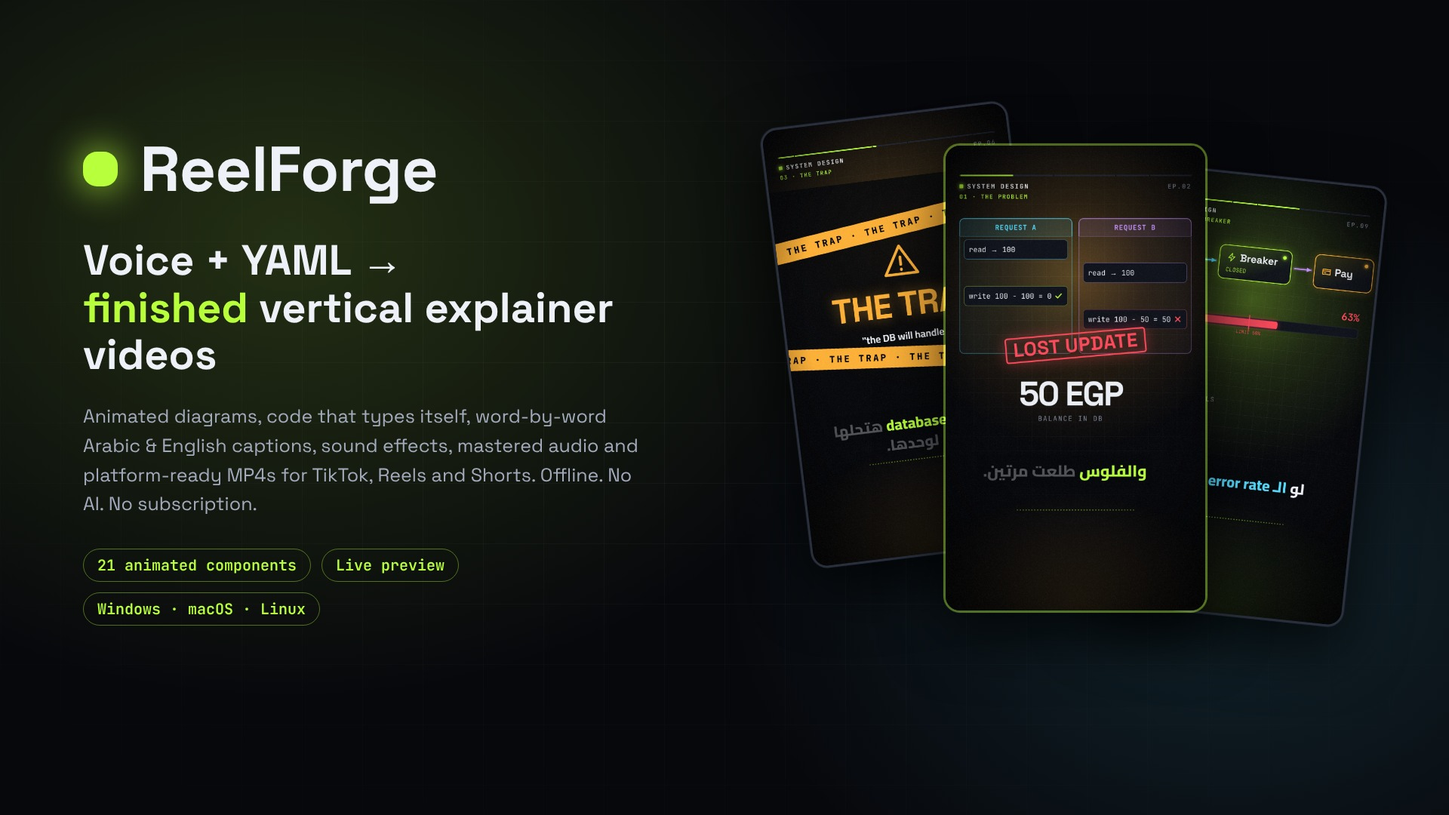
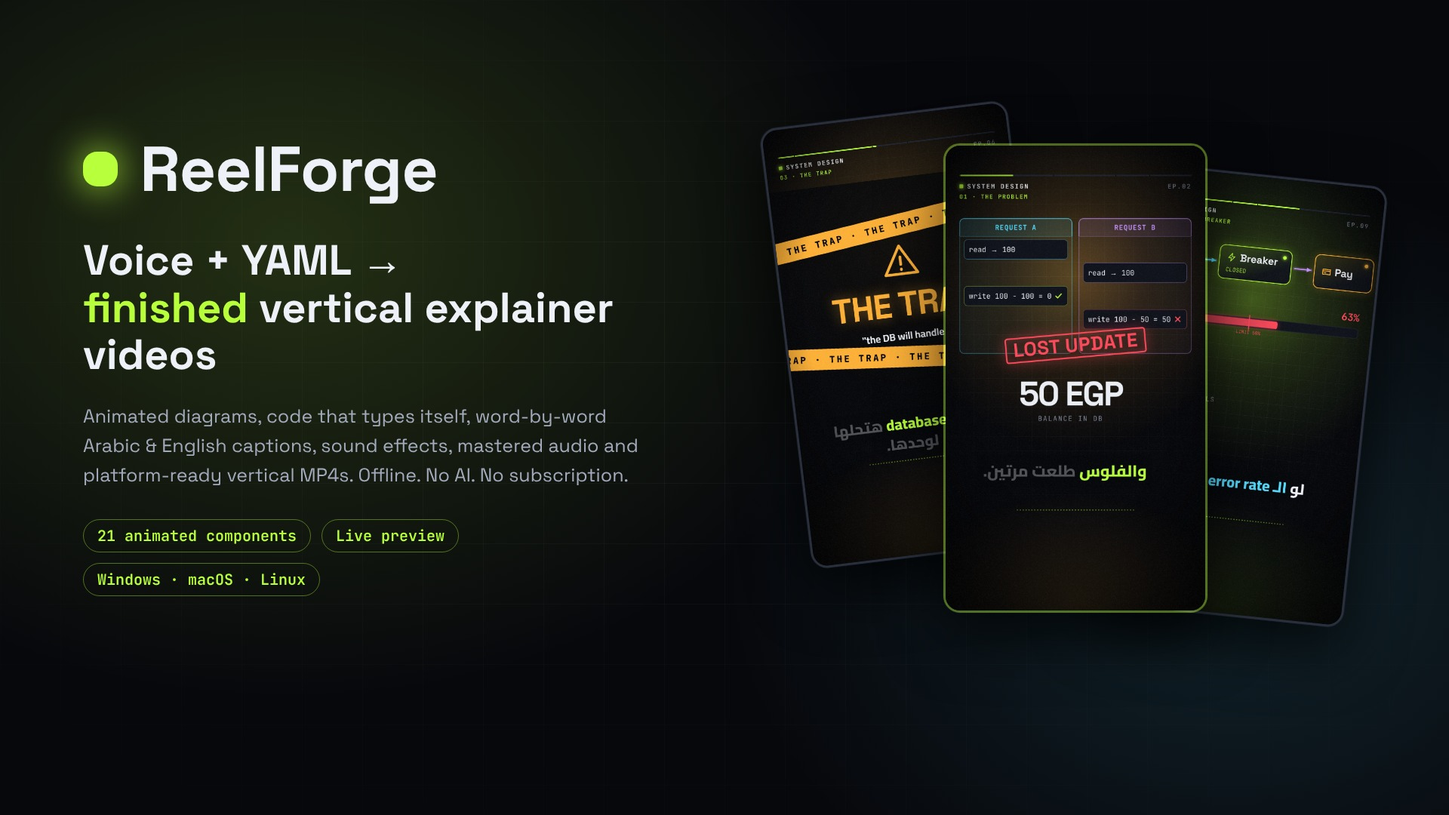
CodeCanyon listing: Envato-compliant title, key features, tags, description, reviewer note; 3:2 cover image; no trademarks in previews
Claude-Session: https://claude.ai/code/session_01XQtirGsScPfnWSNLUA9dcY

Changed region(s): [[0.0625, 0.55, 0.4375, 0.7639]]

diff --git a/docs/codecanyon/item-description.html b/docs/codecanyon/item-description.html
@@ -1,65 +1,110 @@
-<h2>ReelForge — Voice + YAML → finished vertical explainer videos</h2>
+<h2>ReelForge - Voice + YAML to Finished Vertical Explainer Videos</h2>
 <p>
-  Turn a <strong>voice recording</strong> and one simple text file into a <strong>polished vertical explainer video</strong>
-  (1080×1920, 30 fps) for <strong>TikTok, Instagram Reels and YouTube Shorts</strong> — with animated diagrams, code that types
-  itself, word-by-word captions, sound effects, mastered audio and platform-ready MP4 files.
-  No video editor, no keyframes, no subscription, no AI.
+  ReelForge turns a <strong>voice recording</strong> and one simple text file into a <strong>polished vertical explainer video</strong>
+  (1080×1920, 30 fps) ready to publish on short-video platforms such as TikTok, Instagram Reels and YouTube Shorts.
+  You get animated diagrams, code that types itself, word-by-word captions, sound effects, mastered audio and
+  platform-ready MP4 files. You don't need a video editor, keyframes, a subscription or AI.
 </p>
 <p>
-  You write what you say, sentence by sentence, and describe what appears on screen and <strong>on which word</strong>.
-  ReelForge animates everything exactly when you say it. Re-record one sentence and everything after it stays in sync.
+  You write your script one sentence per line and describe what appears on screen and <strong>on which word</strong>.
+  ReelForge animates everything exactly when you say it. If you re-record one sentence, everything after it stays in sync.
 </p>
 
-<h3>Perfect for</h3>
+<h3>Who is it for?</h3>
 <ul>
-  <li>Developers and educators making technical explainer series (system design, programming, DevOps, data…)</li>
-  <li>Arabic creators who mix English terms — captions that are finally laid out correctly</li>
-  <li>Agencies producing consistent branded reels at scale</li>
-  <li>Trainers turning course material into short clips</li>
+  <li>Developers and educators who make technical explainer series (system design, programming, DevOps, data).</li>
+  <li>Arabic creators who mix English terms into their speech. Right-to-left captions keep the English words in the correct order.</li>
+  <li>Agencies and teams producing consistent, branded short videos at scale.</li>
+  <li>Trainers and course authors who turn lessons into short clips.</li>
 </ul>
+
+<h3>How it works</h3>
+<ol>
+  <li><strong>Create</strong> an episode in the dashboard (or with <code>reelforge new ep10</code>).</li>
+  <li><strong>Write</strong> the script and the scenes in <code>episode.yaml</code>. VS Code autocompletion is included.</li>
+  <li><strong>Record</strong> your voice with any recorder, then upload WAV, MP3, M4A, AAC, OGG, FLAC, WebM or Opus.</li>
+  <li><strong>Mark cues</strong> by pressing Space at the start of each sentence while you listen.</li>
+  <li><strong>Preview</strong> the real frame synced to your voice. It reloads every time you save.</li>
+  <li><strong>Validate and render.</strong> You get a master MP4, a share MP4 sized for upload, SRT captions, a contact sheet and a ready-to-paste caption.</li>
+</ol>
 
 <h3>Key features</h3>
 <ul>
-  <li><strong>Project dashboard</strong> — create episodes, upload your recording (WAV, MP3, M4A, OGG, FLAC…), mark cues, preview, validate and render with live progress, then play and download the results.</li>
-  <li><strong>Cue marker</strong> — press Space at the start of each sentence while listening at 0.5×–1× speed; nudge by 10/50 ms, re-mark any line, word-level marks, snap-to-voice-onset, undo, autosave.</li>
-  <li><strong>Live preview</strong> — the real 1080×1920 frame synced to your voice, reloading on every save, with TikTok/Reels/Shorts safe-zone overlays, element boxes and a lint panel.</li>
-  <li><strong>21 animated components</strong> — title, label, code, node, arrow (with moving packets), chip, stamp, table, lanes, checklist, counter, meter, timeline, grid, token bucket, phone mock-up, quote, particles, “The Trap” interstitial, call-to-action and icons.</li>
-  <li><strong>Arabic-first captions</strong> — word-by-word karaoke highlight; right-to-left text with English terms in the correct order; “الـ client” kept together; punctuation on the correct side.</li>
-  <li><strong>Professional audio</strong> — procedural sound effects on hits and transitions, voice mastered to −14 LUFS, effects ducked under the voice, true-peak limiter.</li>
-  <li><strong>Platform-ready output</strong> — H.264 master, a share file that fits the size you choose, SRT captions, a contact sheet and a publish.md with your caption, hashtags and pinned comment. Every file is verified after encoding.</li>
-  <li><strong>13 validation rules</strong> — schema, timing, overlaps, off-screen elements, platform UI zones, text overflow and caption length, each with file:line:column and a fix hint.</li>
-  <li><strong>Themes and presets</strong> — every color, font size and motion value in one YAML file; generate a full theme from one accent color.</li>
-  <li><strong>Fast, parallel rendering</strong> — uses all your CPU cores; a 2-minute episode renders in about 5–10 minutes.</li>
-  <li><strong>Offline and private</strong> — everything runs on your computer. No account, no upload, no per-video cost.</li>
-  <li><strong>Deterministic</strong> — the same inputs always produce exactly the same frames.</li>
-  <li><strong>Command line</strong> for automation and CI: studio, new, cue, dev, validate, render (batch), snap (cover image), doctor, theme, schema — with JSON output.</li>
+  <li><strong>Project dashboard</strong> (runs in your browser, on your computer only): create episodes, upload recordings, mark cues, preview, validate, render with live progress, then play and open the results.</li>
+  <li><strong>Cue marker</strong>: listen at 0.5×, 0.75× or 1× speed. Nudge cues by 10 or 50 ms, re-mark any line, set word-level marks, snap to voice onsets, undo, and everything saves automatically.</li>
+  <li><strong>Live preview</strong>: the exact 1080×1920 frame, synced to your audio, with safe-zone overlays for each platform, element outlines, a lint panel and an error overlay that points to the YAML line.</li>
+  <li><strong>21 animated components</strong>: title, label, code, node, arrow with moving packets, chip, stamp, table, lanes, checklist, counter, meter, timeline, grid, token bucket, phone mock-up, quote, particles, “trap” interstitial, call-to-action and icons.</li>
+  <li><strong>Word-timed animation</strong>: make any element enter, change or leave on a specific spoken word, for example <code>at: "l3:'Idempotency'"</code>.</li>
+  <li><strong>Arabic-first captions</strong>: word-by-word karaoke highlight, right-to-left text with English terms in the correct order, Arabic prefixes kept attached to English words, and punctuation on the correct side. English-only captions work too.</li>
+  <li><strong>Professional audio</strong>: procedural sound effects on hits and transitions, voice mastered to −14 LUFS with two-pass loudness normalisation, effects ducked under the voice, and a true-peak limiter.</li>
+  <li><strong>Platform-ready output</strong>: an H.264 master (CRF 18), a share file that fits the size you choose, SRT subtitles, a contact sheet, a cover frame and a publish.md with caption, hashtags and pinned comment. Every output is checked with ffprobe after encoding.</li>
+  <li><strong>13 validation rules</strong> covering schema, timing, overlaps, off-screen elements, platform UI zones, text overflow and caption length. Each issue reports file:line:column and a fix hint.</li>
+  <li><strong>Themes and presets</strong>: every color, font size and motion value lives in one YAML file. Generate a complete theme from a single accent color.</li>
+  <li><strong>Fast parallel rendering</strong> uses all your CPU cores. A 2-minute episode takes about 5–10 minutes on a typical 8-core computer.</li>
+  <li><strong>Batch and automation</strong>: <code>render --all</code>, JSON output, environment-variable configuration and clean Ctrl+C handling.</li>
+  <li><strong>Offline and private</strong>: everything runs on your own computer, with no account, no uploads and no per-video cost.</li>
+  <li><strong>Deterministic</strong>: the same inputs always produce exactly the same frames.</li>
 </ul>
 
 <h3>What you get</h3>
 <ul>
-  <li>Full TypeScript source code (monorepo, strict mode, 98 automated tests)</li>
-  <li>One-click installers for Windows, macOS and Linux</li>
-  <li>Nine complete example episodes (Season 1 of “System Design بالعربي”)</li>
-  <li>Three themes and three platform presets (TikTok, Reels, Shorts)</li>
-  <li>Offline HTML documentation with screenshots, a component reference and troubleshooting</li>
+  <li>Full, unminified TypeScript source code (strict mode, monorepo of 6 packages) plus a prebuilt build, ready to run</li>
+  <li>One-click installers and launchers for Windows, macOS and Linux</li>
+  <li>9 complete example episodes (an Arabic system-design series) with draft cues</li>
+  <li>3 themes and 3 editable platform presets</li>
+  <li>Offline HTML documentation in English: installation, quick start, dashboard, recording and cues, preview, themes, rendering, command line, troubleshooting and FAQ, component reference, and screenshots</li>
+  <li>A JSON Schema for editor autocompletion</li>
+  <li>98 automated tests</li>
 </ul>
+
+<h3>Command line</h3>
+<pre>
+reelforge studio            open the project dashboard
+reelforge new &lt;id&gt;          create an episode from a commented template
+reelforge cue &lt;id&gt;          mark cues while listening
+reelforge dev &lt;id&gt;          live preview with hot reload
+reelforge validate &lt;id&gt;     13 lint rules with fix hints
+reelforge render &lt;id&gt;       master + share MP4, SRT, contact sheet, publish.md
+reelforge snap &lt;id&gt; &lt;t&gt;     PNG frames, contact sheet, cover image
+reelforge theme new &lt;name&gt;  generate a theme from one accent color
+reelforge doctor --fix      check and fix Node.js, FFmpeg, Chromium and fonts
+</pre>
 
 <h3>Requirements</h3>
 <ul>
-  <li>Windows 10/11, macOS 13+ or Linux</li>
-  <li>Node.js 22 LTS (free) and FFmpeg 6+ (free) — the installer sets them up for you where possible</li>
-  <li>4 CPU cores and 8 GB RAM minimum</li>
+  <li>Windows 10/11 (64-bit), macOS 13 or later, or a 64-bit Linux distribution</li>
+  <li>Node.js 22 LTS and FFmpeg 6 or later, both free. The installer checks for them and offers to install FFmpeg.</li>
+  <li>About 1.5 GB of free disk space for dependencies and the rendering browser, which the installer downloads once</li>
+  <li>At least 4 CPU cores and 8 GB RAM; 8 cores are recommended</li>
+  <li>An internet connection during installation only</li>
+  <li>For the dashboard and studio: a current Chrome, Edge or Firefox</li>
 </ul>
 
-<h3>Notes</h3>
+<h3>Please note</h3>
 <ul>
-  <li>ReelForge does not generate voices or visuals with AI: you record your own voice and design scenes in a simple YAML file (autocompletion included for VS Code).</li>
-  <li>The bundled fonts (Cairo, Space Grotesk, JetBrains Mono) are under the SIL Open Font License; credits are included.</li>
-  <li>The videos you create are yours to use commercially.</li>
+  <li>ReelForge is a <strong>desktop tool that runs on your computer</strong>. It is not a website script, and you don't need a web server or hosting.</li>
+  <li>It does <strong>not</strong> generate voices, scripts or visuals with AI. You record your own voice and describe your scenes in a simple YAML file.</li>
+  <li>Voice recordings are <strong>not included</strong>. The example episodes come with draft cues so you can preview and render them silently, or record your own voice.</li>
+  <li>The preview images and demo video were made entirely with ReelForge and the bundled example episodes. All fonts used in the previews are included.</li>
+  <li>The videos you create are yours to use, including commercially.</li>
+  <li>TikTok, Instagram, Reels, YouTube and Shorts are trademarks of their respective owners. ReelForge is not affiliated with or endorsed by them. Those names only describe the video formats ReelForge exports.</li>
 </ul>
+
+<h3>Credits</h3>
+<ul>
+  <li>Fonts: Cairo, Space Grotesk and JetBrains Mono, all under the SIL Open Font License 1.1 and bundled with their license texts</li>
+  <li>Open-source npm packages under MIT, ISC and Apache-2.0 licenses, listed in full in THIRD-PARTY-NOTICES.md</li>
+  <li>FFmpeg and Chromium (through Playwright) are installed separately on your computer and are not bundled</li>
+</ul>
+
+<h3>Support</h3>
+<p>
+  Item support is provided through the Support tab on this page, following the Envato item support policy.
+  Before you contact us, please run <code>reelforge doctor</code> and include its output. Updates are free for all buyers.
+</p>
 
 <h3>Changelog</h3>
 <pre>
-v1.0.0 — 2026-10-16
+v1.0.0 - 16 October 2026
 - Initial release
 </pre>

diff --git a/docs/codecanyon/listing.md b/docs/codecanyon/listing.md
@@ -1,31 +1,134 @@
-# CodeCanyon listing checklist (author's notes — not shipped to buyers)
+# CodeCanyon submission package (author's notes, not shipped to buyers)
 
-| Field               | Value                                                                                                                                                                    |
-| ------------------- | ------------------------------------------------------------------------------------------------------------------------------------------------------------------------ |
-| Item name           | ReelForge — Vertical Explainer Video Generator for TikTok, Reels & Shorts                                                                                                |
-| Category            | CodeCanyon › JavaScript › Miscellaneous (or › Video)                                                                                                                     |
-| Short description   | Turn a voice recording and a simple YAML file into animated vertical explainer videos with word-by-word captions, sound effects and platform-ready MP4s. Offline. No AI. |
-| Tags                | video generator, tiktok, reels, shorts, explainer, captions, arabic, animation, motion graphics, typescript, ffmpeg, node, cli                                           |
-| Software version    | Node.js 22, Chromium (Playwright 1.56), FFmpeg 6                                                                                                                         |
-| Compatible browsers | Chrome, Edge, Firefox (studio and dashboard)                                                                                                                             |
-| Files included      | JavaScript, TypeScript, HTML, CSS, YAML, JSON                                                                                                                            |
-| Layout              | Responsive (dashboard)                                                                                                                                                   |
-| Documentation       | Well documented (offline HTML)                                                                                                                                           |
+These notes follow Envato's author help center pages: Item Information and Metadata Requirements, Item
+Presentation Requirements, Code Item Preparation & Technical Requirements, Common Rejection Factors for
+Code Items, Adding Key Features, and the Item Support Policy. Every value below is ready to copy and paste
+into the upload form.
 
-## Files to upload
+## 1. Item name (≤ 100 characters, English only, Title Case, no trademarks, no hype words)
 
-| Envato field                 | File (produced by `pnpm release`)                                                |
-| ---------------------------- | -------------------------------------------------------------------------------- |
-| Thumbnail (80×80)            | `release/ReelForge-<version>-marketing/thumbnail.png`                            |
-| Inline preview (590×300)     | `release/ReelForge-<version>-marketing/inline-preview.jpg`                       |
-| Main files (ZIP)             | `release/ReelForge-<version>.zip`                                                |
-| Screenshots / previews (ZIP) | `release/ReelForge-<version>-previews.zip`                                       |
-| Item description             | `docs/codecanyon/item-description.html`                                          |
-| Video preview (optional)     | `release/ReelForge-<version>-marketing/demo.mp4` (upload to YouTube and link it) |
+```
+ReelForge - Vertical Explainer Video Generator with Animated Captions
+```
 
-## Before submitting
+(69 characters.) Platform names (TikTok, Reels, Shorts) are kept out of the title, tags and preview images.
+Envato rejects third-party trademarks in metadata. They appear only once in the description, with a
+trademark notice.
 
-1. `pnpm release` (builds, tests, generates docs/notices/marketing and verifies a clean install from the ZIP).
-2. Open `documentation/index.html` from the unzipped package and click through every chapter.
-3. Test the installer once on a real Windows machine and a Mac.
-4. Replace the support contact in `SUPPORT.md` if you use a dedicated support email or site.
+## 2. Category
+
+`CodeCanyon › JavaScript › Media`. If the reviewer moves the item, accept
+`JavaScript › Miscellaneous` (the catch-all category that holds most Node.js tools).
+
+## 3. Key features (shown in search results: up to 3, ≤ 45 characters each, no caps or special characters)
+
+```
+Voice and YAML to finished vertical videos
+Word by word Arabic and English captions
+Offline renderer for Windows macOS Linux
+```
+
+## 4. Short pitch (for the first line of the description, social posts and the YouTube video)
+
+```
+Turn a voice recording and one YAML file into animated vertical explainer videos with word-by-word captions, sound effects and platform-ready MP4s. Runs offline. No AI, no subscription.
+```
+
+## 5. Description
+
+Paste the HTML from `item-description.html` (headings, paragraphs, lists, `pre` and `code` only, with no
+inline styles or scripts). If you later host images on your own server, you can add `<img>` tags between
+sections. Envato does not host description images.
+
+## 6. Tags (code items: maximum 15, lowercase, no trademarks, no username, no other authors' item names)
+
+```
+video generator, explainer video, vertical video, short video, social media video, animated captions, subtitles, arabic, rtl, motion graphics, animation, video maker, typescript, ffmpeg, nodejs
+```
+
+## 7. Attributes
+
+| Field               | Value                                                                                                                            |
+| ------------------- | -------------------------------------------------------------------------------------------------------------------------------- |
+| Software version    | Node.js (select it if the list offers it; otherwise pick the closest JavaScript option and give the versions in the description) |
+| Compatible browsers | Chrome, Edge, Firefox (the local dashboard and studio). Do not tick IE or Safari                                                 |
+| Files included      | JavaScript JS, HTML, CSS, JSON (TypeScript, YAML and Markdown are inside the source tree; tick the closest options available)    |
+| High resolution     | Yes (1080×1920 output)                                                                                                           |
+| Documentation       | Well Documented (offline HTML in `documentation/`, English)                                                                      |
+| Layout              | Responsive (dashboard), if the field is shown                                                                                    |
+| Demo URL            | YouTube link to `demo.mp4` (see §9)                                                                                              |
+| Item support        | Enable. 6 months included, as described in SUPPORT.md                                                                            |
+| Suggested price     | Regular license $39 to $49 (comparable desktop video tools on CodeCanyon). Envato makes the final pricing decision               |
+
+## 8. Files to upload
+
+| Upload field                        | File (produced by `pnpm release`)                              | Spec checked                                             |
+| ----------------------------------- | -------------------------------------------------------------- | -------------------------------------------------------- |
+| Thumbnail                           | `release/ReelForge-<v>-marketing/thumbnail.png`                | 80×80 PNG                                                |
+| Inline preview (if the form asks)   | `release/ReelForge-<v>-marketing/inline-preview.jpg`           | 590×300 JPEG                                             |
+| Cover image (if the form asks)      | `release/ReelForge-<v>-marketing/cover-2340x1560.jpg`          | 3:2 ratio, 2340×1560 recommended, JPEG < 20 MB           |
+| Main files                          | `release/ReelForge-<v>.zip`                                    | Source + prebuilt dist + English HTML docs + installers  |
+| Preview screenshots (ZIP)           | `release/ReelForge-<v>-previews.zip`                           | 12 screenshots ≥ 1170 px wide + 8 full-resolution frames |
+| Video preview                       | `release/ReelForge-<v>-marketing/demo.mp4` → upload to YouTube | Rendered with ReelForge from example ep02                |
+| Wide banner (social media, YouTube) | `release/ReelForge-<v>-marketing/cover-1920x1080.jpg`          | 16:9                                                     |
+
+## 9. Video preview (YouTube)
+
+- **Title:** `ReelForge - Voice and YAML to Vertical Explainer Videos (Demo)`
+- **Description:** the short pitch from §4, then "Made entirely with ReelForge, available on CodeCanyon."
+- Upload `demo.mp4` as a public or unlisted Short. Optionally add a 60–90 second screen recording of the
+  dashboard flow (create → upload voice → mark cues → preview → render) as a second video.
+
+## 10. Message to the reviewer
+
+```
+Hello, and thank you for reviewing ReelForge.
+
+ReelForge is a desktop tool built on Node.js. It is not a website script and needs no server or hosting.
+It turns a voice recording and a YAML scene file into a finished 1080×1920 vertical video. Rendering runs
+in headless Chromium (Playwright) and encoding in FFmpeg.
+
+How to test it quickly (about 5 minutes):
+1. Unzip, then run install.bat (Windows) or ./install.sh (macOS/Linux). The installer checks Node.js 22,
+   offers to install FFmpeg, installs dependencies, downloads Chromium and runs "reelforge doctor".
+2. Run start.bat, ReelForge.command or ./start.sh. The dashboard opens at http://127.0.0.1:4310.
+3. Click Render on any example episode (tick "Silent" because no voice recording is included) and play
+   the result in the dashboard.
+The documentation is in documentation/index.html.
+
+Notes:
+- Full, unminified TypeScript source is included next to the prebuilt dist; 98 automated tests run with "pnpm test".
+- All preview images and the demo video were made with ReelForge and the included examples; nothing in them
+  is missing from the download.
+- Bundled fonts are SIL OFL 1.1 and npm dependencies are MIT/ISC/Apache-2.0. Credits are in
+  THIRD-PARTY-NOTICES.md. FFmpeg and Chromium are not bundled.
+- The dashboard listens on 127.0.0.1 only and checks request origins.
+- This item is exclusive to Envato Market and is not published or sold anywhere else.
+```
+
+## 11. Pre-submission checklist (common rejection reasons)
+
+| Envato requirement / rejection reason                                 | Status                                                                                      |
+| --------------------------------------------------------------------- | ------------------------------------------------------------------------------------------- |
+| Documentation in English, HTML or PDF, covering install/use/customize | `documentation/index.html` (11 chapters + component reference + changelog)                  |
+| Credits for third-party assets in the documentation                   | `THIRD-PARTY-NOTICES.md` + License chapter in the docs                                      |
+| Unminified source code included                                       | `packages/*/src` (TypeScript) included alongside `dist`                                     |
+| Third-party assets licensed for redistribution                        | OFL fonts and permissive npm packages only; FFmpeg/Chromium not bundled                     |
+| Preview content not included in the download is disclosed             | None. Every preview is made from the included examples (stated in the description)          |
+| No trademarks in title, tags or preview images                        | Done. Platform names appear only in the description, with a trademark notice                |
+| Item not available free or elsewhere (exclusivity)                    | **Action: make the GitHub repository private before submitting** (see below)                |
+| Works on a clean machine                                              | `pnpm release` installs from the ZIP and renders two videos; also test real Windows and Mac |
+| No security or malware issues                                         | `pnpm audit` clean; localhost-only server with origin checks and path containment           |
+| Quality / not too general                                             | 21 components, dashboard, studio, 13 lint rules, audio mastering, 98 tests                  |
+| Support policy stated                                                 | `SUPPORT.md`, plus the Support section of the description                                   |
+| Changelog                                                             | `CHANGELOG.md` and the end of the description                                               |
+| Thumbnail 80×80, inline preview 590×300, cover 3:2                    | Generated and checked by `scripts/marketing.mjs`                                            |
+
+### Before you press Submit
+
+1. Run `pnpm release` and use the files in `release/`.
+2. Make the GitHub repository **private**. Earlier commits were MIT-licensed, and an item that is
+   available free elsewhere gets a hard rejection.
+3. Install from the ZIP once on a real Windows 10/11 PC and once on a Mac.
+4. Upload `demo.mp4` to YouTube and set it as the preview or demo link.
+5. Fill in your author profile (avatar, short bio) and Envato tax information. Turn on item support.
